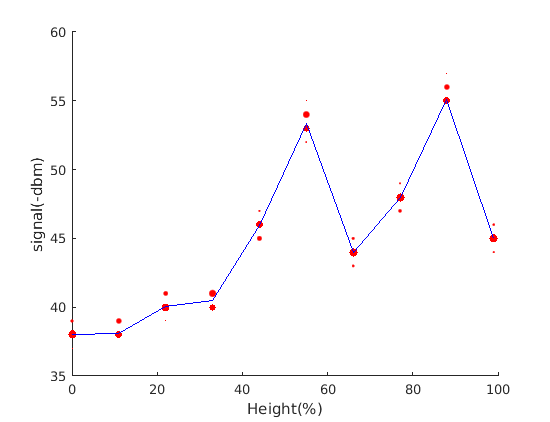
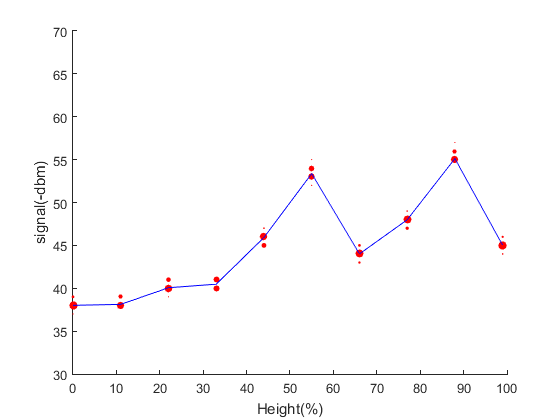
set ylim to signal strength as 30-70

diff --git a/Code/WiFi/plotHeightSignal.m b/Code/WiFi/plotHeightSignal.m
@@ -32,5 +32,6 @@ end
 plot(Y,X_mean,'b-','linewidth',0.5);
 xlabel('Height(%)');
 ylabel('signal(-dbm)');
+ylim([30,70]);
 end
 
